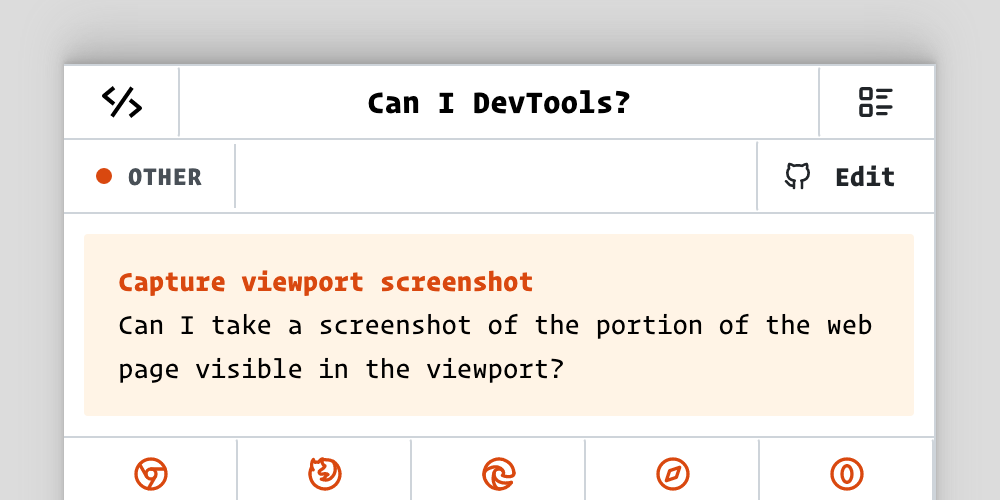
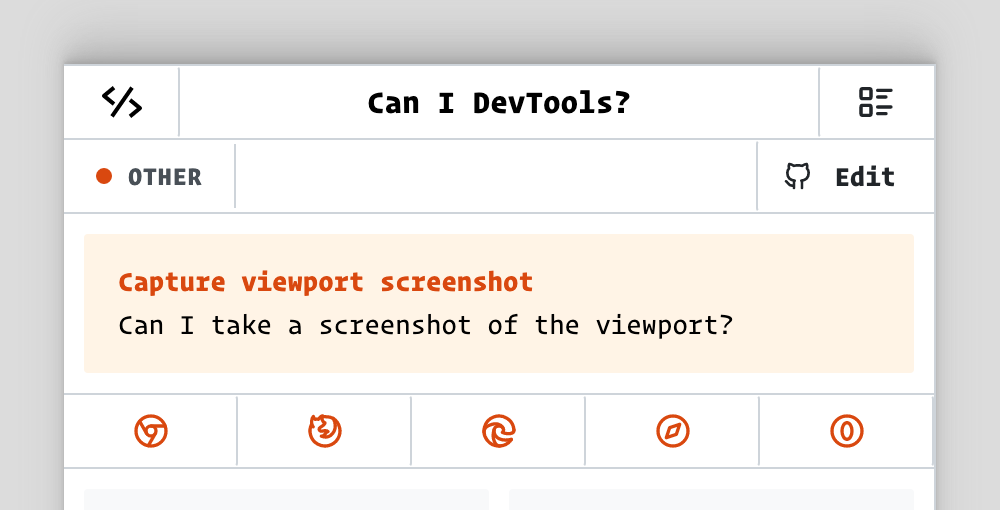
added newsletter link

diff --git a/README.md b/README.md
@@ -192,7 +192,7 @@
  1. In Safari, you can capture screenshot of the viewport from the **Console** using `console.screenshot()`. 
 2. Alternatively, pass the target node to the function to capture screenshot of a specific node.
 ## 15. Capture viewport screenshot 
- Can I take a screenshot of the portion of the web page visible in the viewport? 
+ Can I take a screenshot of the viewport? 
 - [Chrome](https://canidev.tools/capture-viewport-screenshot/chrome) 
  1. Open devtools > Launch Command menu > Search for "Capture screenshot".
 2. Press Enter to capture the screenshot of the viewport.
